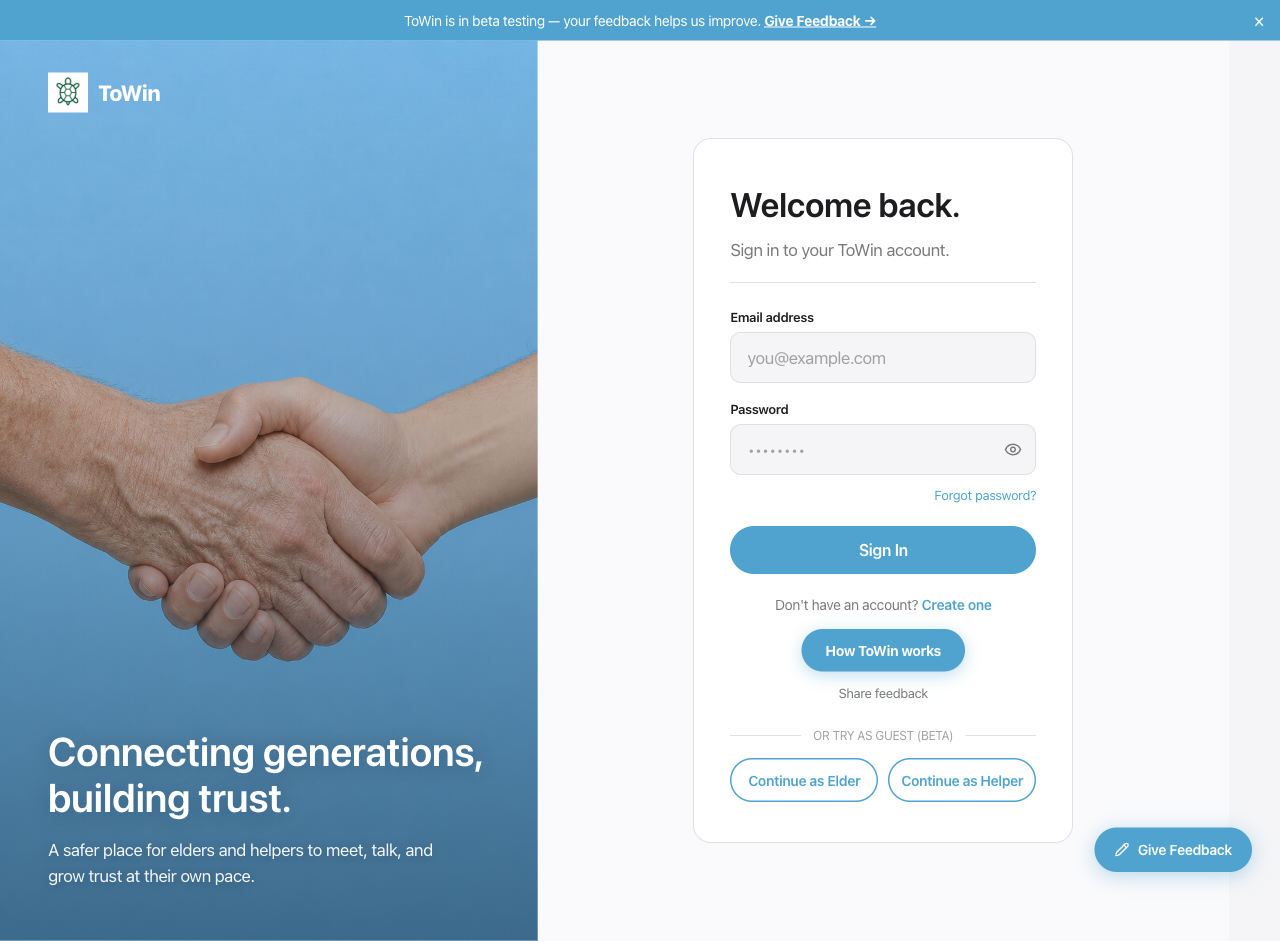
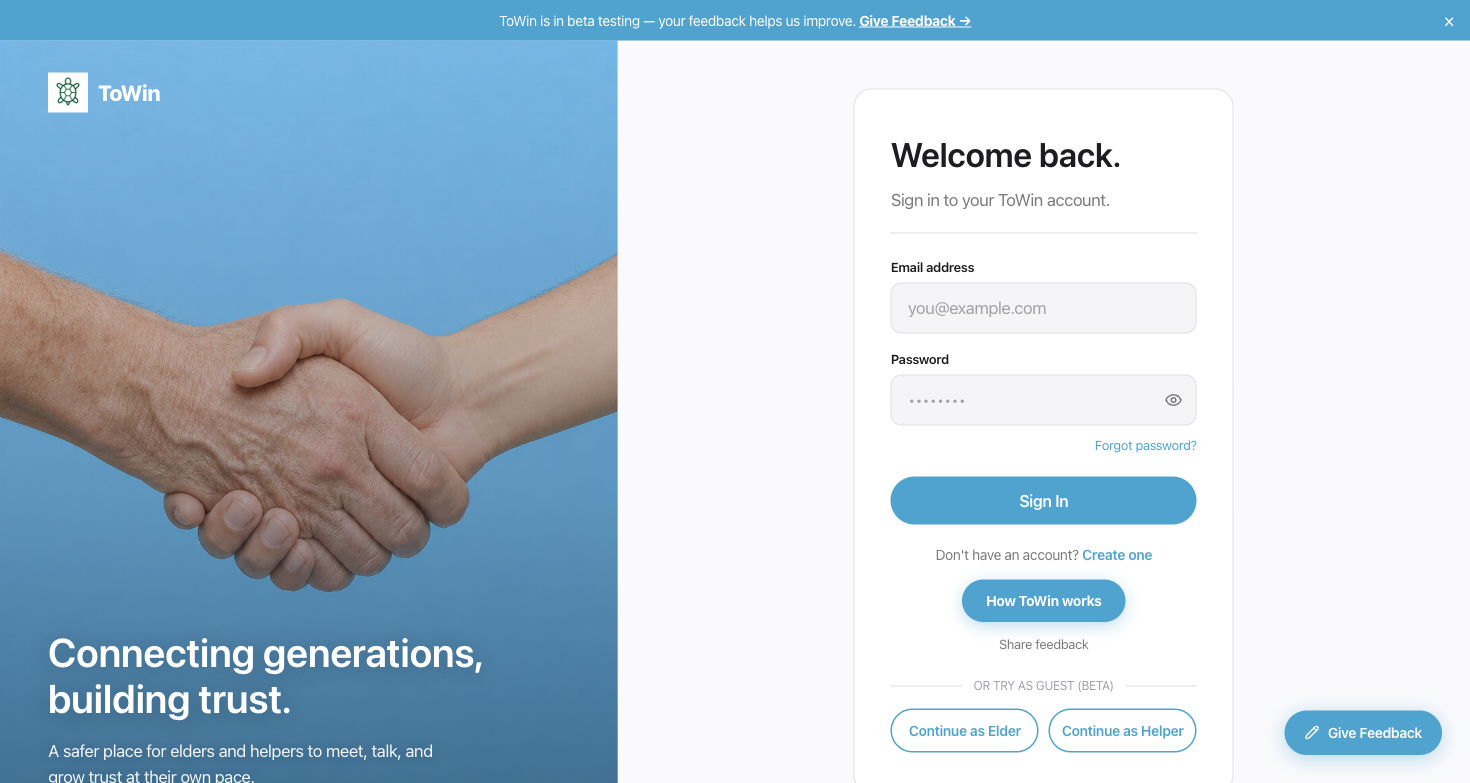
docs: rewrite README — clean, visual, simple with live app screenshots

diff --git a/README.md b/README.md
@@ -1,175 +1,109 @@
-# ToWin
+<div align="center">
 
-A social platform connecting elderly people with each other and with younger helpers — built around a **trust journey** that gradually unlocks contact and meeting capabilities as users earn each other's confidence.
+# 🐢 ToWin
 
-> ### 🚀 Try the live demo — no signup needed
->
-> **[towin.vercel.app](https://towin.vercel.app)** — open the site and scroll to the bottom of the Login page. Hit **Continue as Elder** or **Continue as Helper** to jump straight in as a throwaway beta user. Every feature works the same as a real account.
+### Connecting generations, building trust.
 
----
+A social platform where **elders** and **younger helpers** meet, talk, and grow trust at their own pace.
 
-## Features
+**[🚀 Try the live demo →](https://towin.vercel.app)**
 
-| | |
-|---|---|
-| ✅ Progressive trust connections | Two users move through trust levels (message → phone → meet) with mutual confirmation at each step |
-| ✅ Need posts & applications | Elders post tasks; helpers apply; accepting a helper auto-creates an active connection |
-| ✅ Real-time messaging | WebSocket-backed chat with trust-gated phone reveal |
-| ✅ Trust score (0–100) | Phone/ID verification, completed services, reviews, reports — auto-suspend on abuse |
-| ✅ Streaks | Daily elder check-in feeds into trust score |
-| ✅ Emergency contacts + SOS | Inactivity detection and Twilio SMS escalation |
-| ✅ Reviews & reports | Post-interaction safety + accountability surface |
-| ✅ Beta guest mode | One-click throwaway accounts for testers (no email/password) |
-| ✅ Admin panel | Moderation queue + manual ID verification |
-| ✅ Discovery | Helper / elder search with role-based filters |
+*No signup needed — scroll to the bottom of the login page and click **Continue as Elder** or **Continue as Helper**.*
 
-For the full product story see [`docs/ToWin-Business-Pitch.docx`](docs/ToWin-Business-Pitch.docx) and architecture details in [`docs/ToWin-Technical-Documentation.docx`](docs/ToWin-Technical-Documentation.docx).
+</div>
 
 ---
 
-## Screenshots
+## 📸 A look inside
 
-| Login | Register |
-|---|---|
-| ![Login page with Continue as Guest buttons at bottom](docs/screenshots/login.png) | ![Register page with Continue as Guest buttons at bottom](docs/screenshots/register.png) |
+| Login | Trust Score |
+|:---:|:---:|
+| ![Login](docs/screenshots/login.png) | ![Trust Score](docs/screenshots/trust.png) |
 
-Both pages end with an **OR TRY AS GUEST (BETA)** divider and the two outline pills so beta testers can sidestep signup entirely.
-
----
-
-## Tech stack
-
-**Backend** — Java 21, Spring Boot 3.2, Spring Security (JWT), Spring Data JPA, PostgreSQL 18, Flyway. Optional Redis cache and Kafka event bus, both gated behind `app.redis.enabled` / `app.kafka.enabled` flags. AWS S3 for document/photo uploads, Twilio for SMS.
-
-**Frontend** — React 19, Vite, React Router 7, TanStack Query, Radix UI, Framer Motion, plain CSS-in-JS.
-
-**Infra**
-- **Local**: Docker Compose runs Postgres + Redis + Kafka so you can demo the full stack.
-- **Production**: backend + Postgres on [Railway](https://railway.com), frontend on [Vercel](https://vercel.com). Redis and Kafka are not deployed to prod (flags default off, in-memory cache + in-process event handling).
+| Elder Dashboard | How It Works |
+|:---:|:---:|
+| ![Dashboard](docs/screenshots/elder-dashboard.png) | ![How it works](docs/screenshots/how-it-works.png) |
 
 ---
 
-## Repository layout
+## ✨ What you can do
+
+- 🤝 **Build trust gradually** — connections move through levels (message → phone → meet), and **both people** confirm each step.
+- 📝 **Post & answer needs** — elders post tasks, helpers apply, accepting one starts a connection.
+- 💬 **Chat in real time** — WebSocket messaging; phone numbers stay hidden until trust is earned.
+- ⭐ **Earn a trust score** — verification, completed help, and reviews build a 0–100 score.
+- 🔥 **Keep a streak** — daily elder check-ins.
+- 🚨 **Stay safe** — emergency contacts, SOS, reviews, and reports.
+- 👀 **Try it instantly** — one-click guest mode for beta testers.
+
+---
+
+## 🛠 Built with
+
+**Frontend** — React 19 · Vite · React Router · TanStack Query
+**Backend** — Java 21 · Spring Boot 3 · Spring Security (JWT) · JPA · Flyway
+**Database** — PostgreSQL
+**Optional** — Redis (cache) · Kafka (events) — flag-gated, on locally, off in prod
+**Hosting** — Vercel (frontend) · Railway (backend + Postgres)
+
+---
+
+## 🚀 Run it locally
+
+```bash
+# 1. Start the database (Redis + Kafka optional)
+docker compose up -d postgres
+
+# 2. Backend → http://localhost:8080
+cd backend && ./mvnw spring-boot:run
+
+# 3. Frontend → http://localhost:5173
+cd frontend && npm install && npm run dev
+```
+
+Flyway runs the migrations automatically on boot. Copy `.env.example` to `.env` first and fill in the secrets.
+
+> Want the full Redis + Kafka stack for a demo? Run `docker compose up -d` — both are enabled locally via `APP_REDIS_ENABLED` / `APP_KAFKA_ENABLED`.
+
+---
+
+## 📁 Project structure
 
 ```
 ToWin/
-├── backend/                 Spring Boot service
-│   └── src/main/java/com/towin/
-│       ├── auth/            registration, login, guest, JWT, phone OTP, ID upload
-│       ├── profile/         elder & helper profiles
-│       ├── connection/      trust-level state machine
-│       ├── trust/           trust score breakdown
-│       ├── streak/          daily check-in streaks
-│       ├── messaging/       chat + WebSocket
-│       ├── need/            need posts & applications
-│       ├── emergency/       SOS + emergency contacts
-│       ├── review/          post-interaction reviews
-│       ├── report/          user reports
-│       ├── feedback/        beta feedback form
-│       ├── admin/           admin endpoints
-│       ├── discovery/       helper / need search
-│       └── common/          security, S3, TrustScoreService, cache config,
-│                            Kafka producer/consumer, shared entities
-├── frontend/                React + Vite SPA (deployed to Vercel)
-├── docs/
-│   ├── superpowers/         specs and plans
-│   ├── ToWin-Business-Pitch.docx
-│   └── ToWin-Technical-Documentation.docx
-├── notes/                   personal study notes
-├── docker-compose.yml       local Postgres + Redis + Kafka
-└── README.md
+├── backend/      Spring Boot API (auth, trust, needs, messaging, streaks…)
+├── frontend/     React + Vite SPA
+├── docs/         Deployment runbook, specs, screenshots
+└── docker-compose.yml
 ```
 
 ---
 
-## Running locally
-
-### 1. Prerequisites
-- Java 21, Maven
-- Node 20+, npm
-- Docker (for Postgres, plus optional Redis / Kafka)
-
-### 2. Configure environment
-Copy `.env.example` to `.env` and fill in values (DB credentials, JWT secret, S3, Twilio, etc.):
-```bash
-cp .env.example .env
-```
-
-### 3. Start infra
-```bash
-# Minimal — just Postgres (Redis and Kafka are optional)
-docker compose up -d postgres
-
-# Or full stack with Redis cache + Kafka events
-docker compose up -d
-```
-
-### 4. Backend
-```bash
-cd backend
-./mvnw spring-boot:run
-```
-Flyway migrations run automatically on boot. The API listens on `http://localhost:8080`.
-
-To enable Redis or Kafka locally, set `APP_REDIS_ENABLED=true` and/or `APP_KAFKA_ENABLED=true` (already set in `docker-compose.yml` for the `app` service).
-
-### 5. Frontend
-```bash
-cd frontend
-npm install
-npm run dev
-```
-Vite serves on `http://localhost:5173`.
-
----
-
-## Deployment
-
-The live site runs on **Vercel** (frontend) + **Railway** (backend + Postgres). Redis and Kafka are wired into the codebase but not deployed — they're gated behind feature flags so prod runs with an in-memory cache and in-process event handling.
-
-Full runbook with env vars, redeploy commands, dump/restore steps, and recovery playbooks: **[`docs/DEPLOYMENT.md`](docs/DEPLOYMENT.md)**.
-
-Quick reference:
-
-| Piece | Hosted on | How to deploy |
-|---|---|---|
-| Frontend (Vite SPA) | Vercel, root `frontend/` | Auto-deploys on push to `main` |
-| Backend (Spring Boot) | Railway, Dockerfile build | `railway up ./backend --path-as-root --service backend --detach` |
-| Postgres | Railway managed plugin | — |
-
----
-
-## Key concepts
-
-### Trust journey
-A `Connection` between two users carries a `currentTrustLevel`. To advance, **both users** must confirm at the current step; on advancement, confirmations reset and the next level's contact channel unlocks (e.g. phone number is exposed in `ConnectionResponse` once `PHONE_CALL` is reached).
-
-### Trust score
-Per `TrustScoreService.recalculate(userId)`, scored 0–100:
+## 🧠 How the trust score works
 
 | Factor | Points |
 |---|---|
 | Phone verified | +10 |
 | ID verified | +20 |
-| Each TRUSTED connection (cap +25) | +5 |
-| Each completed service as helper (cap +15) | +3 |
-| Avg review rating mapped 0–10 | 0–10 |
-| Account active > 30 days | +5 |
+| Each trusted connection *(max +25)* | +5 |
+| Each completed help *(max +15)* | +3 |
+| Average review rating | 0–10 |
+| Active 30+ days | +5 |
 | Each report received | −15 |
 
-### Roles
-- `ELDER` — posts needs, builds connections, can have emergency contacts, runs streaks.
-- `HELPER` — applies to needs, builds connections, accumulates completed-service trust.
-- `ADMIN` — moderation surface.
+Scored 0–100, with auto-suspend on abuse.
 
-> A `BOTH` value exists in the backend enum for a future "elder who also helps" capability, but it's not yet exposed in the registration UI.
+**Roles:** `ELDER` · `HELPER` · `ADMIN` *(a `BOTH` role is reserved for a future feature)*
 
 ---
 
-## Documentation
+## 📚 More docs
 
-- **Deployment runbook:** [`docs/DEPLOYMENT.md`](docs/DEPLOYMENT.md)
-- **Specs & plans:** [`docs/superpowers/`](docs/superpowers/)
-- **Personal study notes:** [`notes/learning.txt`](notes/learning.txt)
-- **Business pitch (Word):** [`docs/ToWin-Business-Pitch.docx`](docs/ToWin-Business-Pitch.docx)
-- **Technical documentation (Word):** [`docs/ToWin-Technical-Documentation.docx`](docs/ToWin-Technical-Documentation.docx)
+- **[Deployment runbook](docs/DEPLOYMENT.md)** — hosting, env vars, dump/restore, recovery
+- **[Specs & plans](docs/superpowers/)**
+- **[Business pitch](docs/ToWin-Business-Pitch.docx)** · **[Technical doc](docs/ToWin-Technical-Documentation.docx)**
+
+<div align="center">
+<br>
+Built with care for older adults and the people who help them. 🐢
+</div>